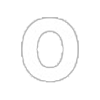
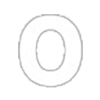
Fixed combo index > 10

Changed region(s): [[0.18, 0.12, 0.84, 0.9], [0.33, 0.27, 0.66, 0.72]]

diff --git a/scripts/HitCircle.js b/scripts/HitCircle.js
@@ -100,7 +100,7 @@ class HitCircle {
         ctx.drawImage(
             pseudoCanvas,
             this.positionX - drawOffset * normalizedExpandRate - 2,
-            !mods.HR ? this.positionY - drawOffset * normalizedExpandRate - 2 : drawOffset - 2
+            !mods.HR ? this.positionY - drawOffset * normalizedExpandRate - 2 : drawOffset - 4
         );
 
         if (mods.HR) {
@@ -131,13 +131,34 @@ class HitCircle {
             ctx.translate(0, this.positionY + (currentHitCircleSize * currentScaleFactor * 276) / 256);
             ctx.scale(1, -1);
         }
-        ctx.drawImage(
-            defaultArr[comboIdx],
-            this.positionX - drawOffset,
-            !mods.HR ? this.positionY - drawOffset : drawOffset,
-            (currentHitCircleSize * currentScaleFactor * 276) / 256,
-            (currentHitCircleSize * currentScaleFactor * 276) / 256
-        );
+
+        const numberCanvas = new OffscreenCanvas(drawOffset * 2, drawOffset * 2);
+        const numberCtx = numberCanvas.getContext("2d");
+
+        const numberCenter = drawOffset;
+        const comboStr = comboIdx.toString().split("");
+        const digitCounts = comboStr.length - 1;
+        const numberOffset = 30;
+
+        // numberCtx.moveTo(0, 0);
+        // numberCtx.fillStyle = "red";
+        // numberCtx.arc(0, 0, 10, 0, Math.PI * 2, 0);
+        // numberCtx.fill();
+
+        // console.log(this.startTime, comboStr);
+
+        comboStr.forEach((num, idx) => {
+            numberCtx.drawImage(
+                defaultArr[num],
+                numberCenter - drawOffset + (idx - digitCounts / 2) * numberOffset,
+                numberCenter - drawOffset,
+                (currentHitCircleSize * currentScaleFactor * 276) / 256,
+                (currentHitCircleSize * currentScaleFactor * 276) / 256
+            );
+        });
+
+        ctx.drawImage(numberCanvas, this.positionX - drawOffset, !mods.HR ? this.positionY - drawOffset : drawOffset);
+
         if (mods.HR) {
             ctx.restore();
         }

diff --git a/scripts/Slider.js b/scripts/Slider.js
@@ -238,7 +238,9 @@ class Slider {
             pseudoCtx.globalAlpha = 1;
         }
 
-        if (opacity < 0 && percentage >= 0) {
+        // console.log(this.startTime, percentage);
+
+        if (opacity < 0 && percentage >= 0 && percentage <= 1) {
             const endPosition = Math.min(
                 Math.ceil((this.initialSliderLen / this.repeat / this.sliderLen) * this.angleList.length - 1),
                 this.angleList.length - 1

diff --git a/scripts/ObjectsList.js b/scripts/ObjectsList.js
@@ -52,7 +52,7 @@ class ObjectsList {
             }
             return {
                 ...object,
-                comboIdx: this.comboIdx++ % 10,
+                comboIdx: this.comboIdx++,
                 colour: coloursList[this.currentColor],
                 colourIdx: this.currentColor,
             };
